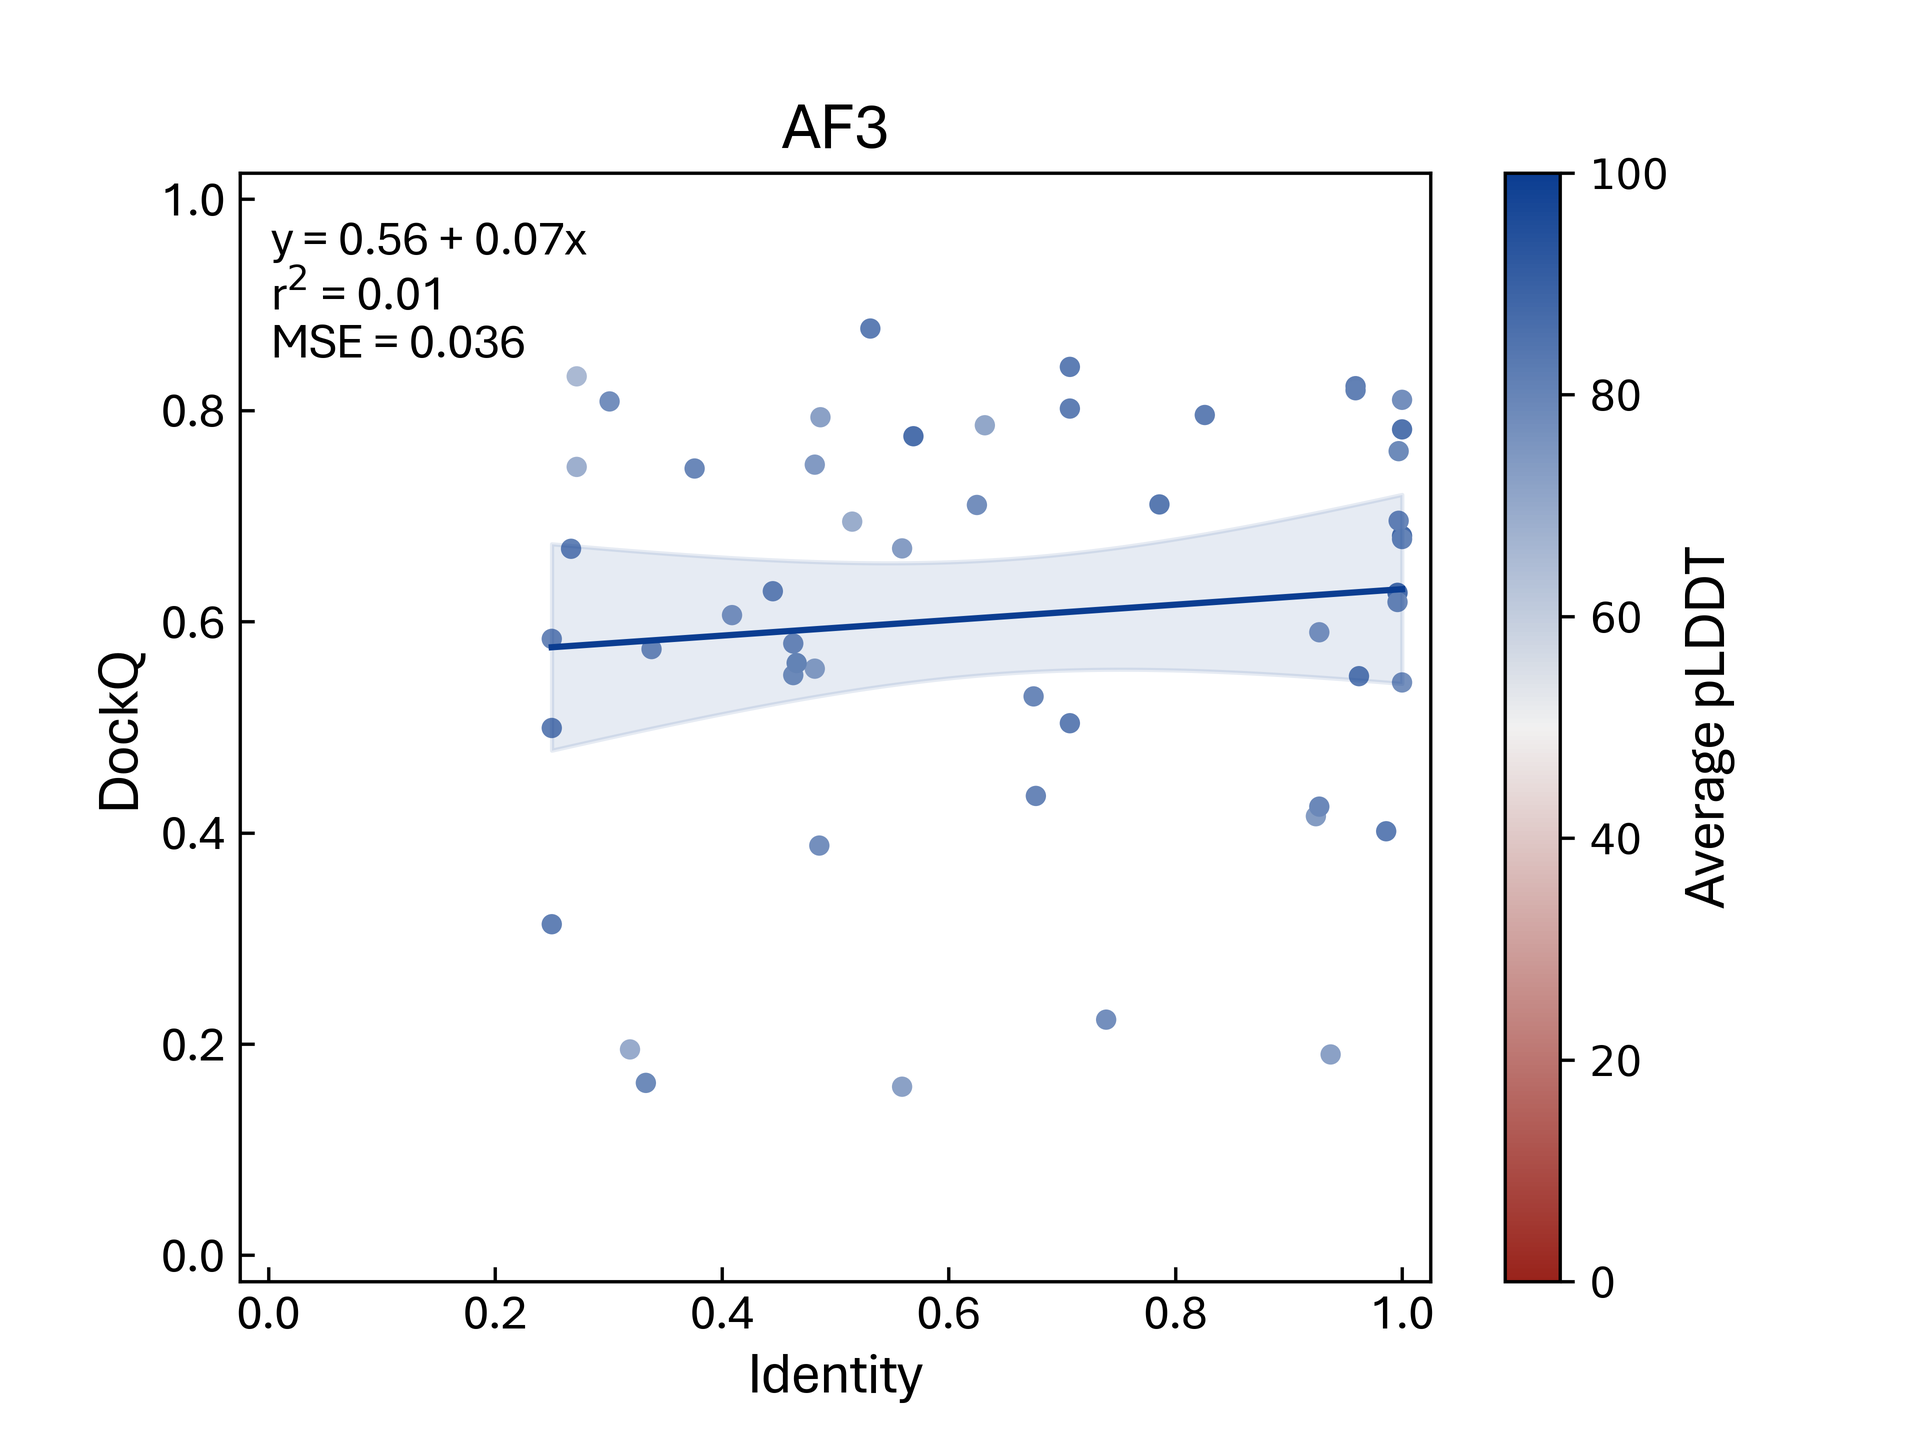
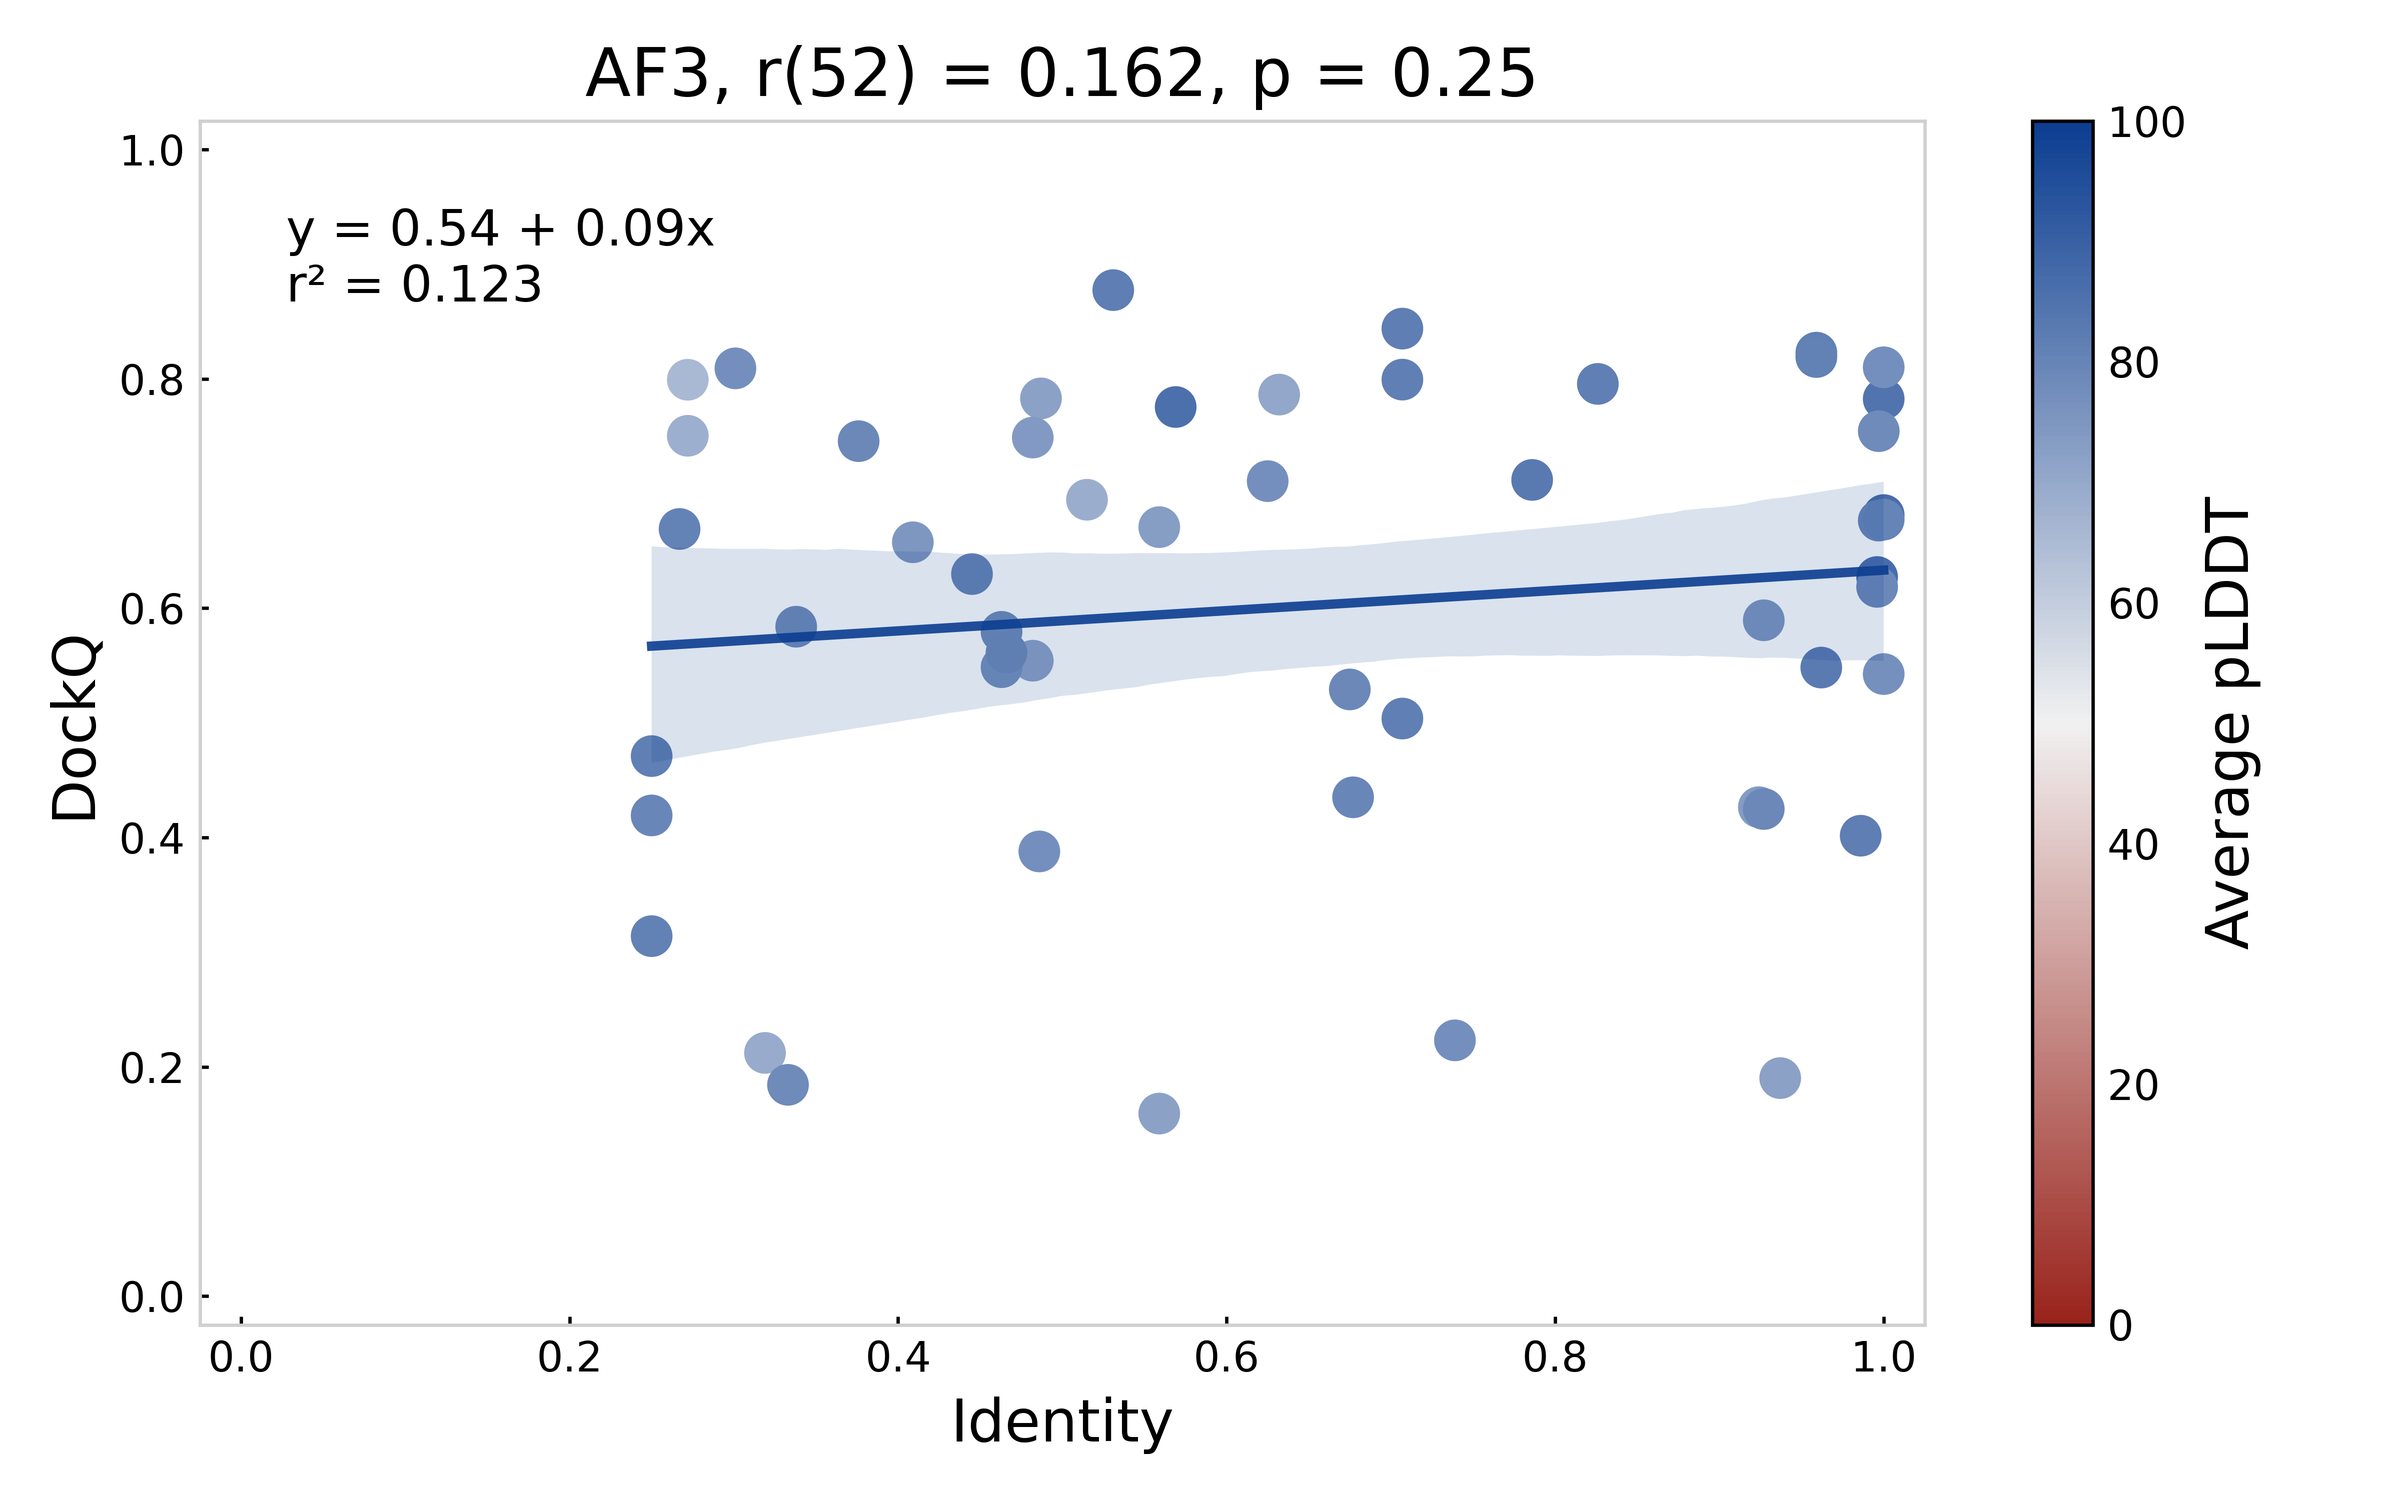
Correct evalue plots

diff --git a/structure_benchmark_data/get_mmseqs2_evalue.py b/structure_benchmark_data/get_mmseqs2_evalue.py
@@ -3,9 +3,6 @@ import sys
 import pandas as pd
 import matplotlib.pyplot as plt
 import seaborn as sns
-import matplotlib.font_manager as fm
-import matplotlib.colors as mcolors
-from matplotlib.colors import LinearSegmentedColormap
 from scipy import stats
 import numpy as np
 from sklearn.metrics import r2_score
@@ -14,6 +11,7 @@ from sklearn.metrics import r2_score
 top_level_dir = os.path.abspath(os.path.join(os.path.dirname(__file__), ".."))
 sys.path.append(top_level_dir)
 from colors import *
+
 
 def get_closest_training_structures(input_path):
     # List files in the input directory
@@ -87,14 +85,13 @@ def calculate_average_plddt(pdb_file_path):
         return None
 
 
-def identity_vs_dockq_plot(model, dockq_path, training_struct_df, plot_path=""):
+def identity_vs_dockq_plot(model, dockq_path, training_struct_df, plot_path="", x="Identity", y="DockQ"):
     data = pd.read_csv(dockq_path)
     data = data[data["model"] == model]
     data = data.merge(training_struct_df, left_on="pdb", right_on="pdb", how="left")
 
-    # Get the top-level directory
+    # Get the top-level directory and build the path to the plot directory
     repo_dir = os.path.abspath(os.path.join(os.path.dirname(__file__), ".."))
-
     if plot_path == "":
         plot_path = f"{repo_dir}/structure_benchmark_data/plots"
 
@@ -116,149 +113,84 @@ def identity_vs_dockq_plot(model, dockq_path, training_struct_df, plot_path=""):
             average_plddt = average_plddt * 100
         data.loc[data["pdb"] == pdb, "average_plddt"] = average_plddt
 
-    # Make a scatter plot of DockQ vs e-value
-    fig, ax = plt.subplots(figsize=(8, 5))
-    x = "Identity"
-    y = "DockQ"
+    # Use Spearman's rank correlation to calculate the correlation between the two variables
+    statistic, corr_p_val = stats.spearmanr(data[[x, y]], axis=0, nan_policy='propagate', alternative='two-sided')
+    statistic = np.round(statistic, 3)
+    corr_p_val = np.round(corr_p_val, 3)
+    n = len(data[x])
 
-    # Plot path
-    if not os.path.exists(plot_path):
-        os.makedirs(plot_path)
-    output_path = os.path.join(plot_path, f"{model}_{x}_vs_{y}.png")
+    # Calculate the regression statistics
+    slope, intercept, r_value, p_value, std_err = stats.linregress(data[x], data[y])
 
-    # Specify the path to the Aptos font file
-    font_path = f"{repo_dir}/Aptos.ttf"
-    font_prop = fm.FontProperties(fname=font_path)
+    # Make the plot using Seaborn
+    plt.figure(figsize=(8, 5))
 
-    # Calculate the linear regression line and 95% confidence interval
-    slope, intercept = np.polyfit(data[x], data[y], 1)
-    y_model = np.polyval([slope, intercept], data[x])
-    x_mean = np.mean(data[x])
-    y_mean = np.mean(data[y])
-    n = data[x].size
-    m = 2  # Two parameters: slope and intercept
-    dof = n - m
-    t = stats.t.ppf(0.975, dof)
-
-    numerator = np.sum((data[x] - x_mean) * (data[y] - y_mean))
-    denominator = (
-        np.sum((data[x] - x_mean) ** 2) * np.sum((data[y] - y_mean) ** 2)
-    ) ** 0.5
-    r2 = (numerator / denominator)**2
-    MSE = 1 / n * np.sum((data[y] - y_model) ** 2)
-    x_line = np.linspace(np.min(data[x]), np.max(data[x]), 100)
-    y_line = np.polyval([slope, intercept], x_line)
-    ci = (
-        t
-        * std_error
-        * (1 / n + (x_line - x_mean) ** 2 / np.sum((data[x] - x_mean) ** 2)) ** 0.5
+    # Create the scatterplot using plt.scatter with fixed colormap scale
+    points = plt.scatter(
+        data[x],
+        data[y],
+        c=data["average_plddt"],  # Set color based on average pLDDT
+        cmap=get_good_bad_cmap(),  # Use a consistent colormap
+        s=100,  # Set point size
+        linewidth=0,  # Set edge width
+        vmin=0,  # Fix the minimum value at 0
+        vmax=100  # Fix the maximum value at 100
     )
 
-    # Residuals and standard error
-    residual = data[y] - y_model
-    std_error = (np.sum(residual**2) / dof) ** 0.5  # Standard deviation of the error
+    # Add colorbar for the scatter plot
+    cbar = plt.colorbar(points)
+    cbar.set_label("Average pLDDT", fontsize=14)
 
-    # Mean of the x values
-    x_mean = np.mean(data[x])
-
-    # Standard error of the slope
-    SE_slope = std_error / np.sqrt(np.sum((data[x] - x_mean) ** 2))
-
-    # t-statistic for the slope
-    t_stat_slope = slope / SE_slope
-
-    # p-value (two-tailed)
-    p_value = 2 * (1 - stats.t.cdf(np.abs(t_stat_slope), dof))
-
-
-    print("Manual calculation: ")
-    print(f"Slope: {slope}")
-    print(f"Intercept: {intercept}")
-    print(f"t-statistic for slope: {t_stat_slope}")
-    print(f"p-value: {p_value}\n\n")
-
-    slope, intercept, r_value, p_value, std_err = stats.linregress(data[x], data[y])
-    print("Using function: ")
-    print(f"Slope: {slope}")
-    print(f"Intercept: {intercept}")
-    print(f"t-statistic for slope: {t_stat_slope}")
-    print(f"p-value: {p_value}")
-
-    # Create new figure
-    fig, ax = plt.subplots()
-
-    # Set the normalization range for the colormap from 0 to 100
-    norm = mcolors.Normalize(vmin=0, vmax=100)
-
-    # Make the scatterplot
-    sc = ax.scatter(
+    # Create the scatterplot with regression line and confidence intervals using sns.regplot()
+    scatter_plot = sns.regplot(
         x=data[x],
         y=data[y],
-        c=data["average_plddt"],
-        cmap=get_good_bad_cmap(),
-        norm=norm,
-        s=15,
-    )
-    ax.plot(x_line, y_line, color=COLOR["Receptor"])
-    ax.fill_between(
-        x_line,
-        y_line + ci,
-        y_line - ci,
-        color=COLOR["Receptor"],
-        label="95% confidence interval",
-        alpha=0.1,
-    )
-    ax.text(
-        0.0025,
-        0.85,
-        "y = "
-        + str(np.round(intercept, 2))
-        + " + "
-        + str(np.round(slope, 2))
-        + "x\n"
-        + "r$^2$ = "
-        + str(np.round(r2, 3))
-        + "\nMSE = "
-        + str(np.round(MSE, 3)),
-        font_properties=font_prop,
-        fontsize=12,
+        scatter_kws={"s": 0},
+        line_kws={"color": "#0b3d91", "alpha": 0.9},
+        ci=95
     )
 
-    # Add colorbar
-    cbar = plt.colorbar(sc, ax=ax, orientation="vertical")
-    cbar.set_label("Average pLDDT", fontproperties=font_prop, fontsize=14)
-
-    # Optionally, set custom ticks and labels for the colorbar
-    cbar.set_ticks([0, 20, 40, 60, 80, 100])  # Customize the ticks if needed
-    cbar.set_ticklabels([0, 20, 40, 60, 80, 100])  # Customize the tick labels if needed
-
-    # Update fonts and labels
-    plt.xlabel(x, fontproperties=font_prop, fontsize=14)
-    plt.ylabel(y, fontproperties=font_prop, fontsize=14)
-
-    # Update fonts and labels
-    plt.xlabel(x, fontproperties=font_prop, fontsize=14)
-    plt.ylabel(y, fontproperties=font_prop, fontsize=14)
-
-    # Modify the title
+    # Set axis labels and title
+    plt.xlabel(x, fontsize=14)
+    plt.ylabel(y, fontsize=14)
     model_title = model.split("_")[0]
     if "no_templates" in model:
         model_title += " (no templates)"
-    plt.title(f"{model_title}", fontproperties=font_prop, fontsize=16)
+    plt.title(f"{model_title}, r({n}) = {statistic}, p = {corr_p_val}", fontsize=16)
 
-    # Set the font properties for the ticks
-    for label in ax.get_xticklabels() + ax.get_yticklabels():
-        label.set_fontproperties(font_prop)
-        label.set_fontsize(12)
-
-    # Modift ticks and set axis limits
-    plt.tick_params(axis="y", direction="in")
-    plt.tick_params(axis="x", direction="in")
+    # Set axis limits
     plt.ylim(-0.025, 1.025)
     plt.xlim(-0.025, 1.025)
 
-    # Save the figure
+    # Annotate the plot with the regression statistics
+    plt.text(
+        0.05,
+        0.85,
+        f"y = {intercept:.2f} + {slope:.2f}x\nr² = {r_value:.3f}",
+        fontsize=12,
+        transform=scatter_plot.transAxes
+    )
+
+    # Hide grid and legend
+    plt.grid(False)
+
+    # Make frame around the plot grey
+    for spine in plt.gca().spines.values():
+        spine.set_edgecolor("#d0d0d0")
+
+    # Make tickmarks go inward
+    plt.tick_params(direction="in", length=2)
+
+    # Remove tickmarks from colorbar
+    cbar.ax.tick_params(direction="in", length=0)
+
+    # Save the plot
+    if not os.path.exists(plot_path):
+        os.makedirs(plot_path)
+    output_path = os.path.join(plot_path, f"{model}_{x}_vs_{y}.png")
+    plt.tight_layout()
     plt.savefig(output_path, dpi=600)
+    plt.close()
 
 
 if __name__ == "__main__":
@@ -272,11 +204,11 @@ if __name__ == "__main__":
     # Get the closest training structures
     af_training_struct = get_closest_training_structures(af_input_path)
     af_training_struct.to_csv(
-        f"{file_dir}/mmseq2_results/mmseq2_af_training_structures.csv", index=False
+        f"{file_dir}/mmseqs2_results/mmseq2_af_training_structures.csv", index=False
     )
     rfaa_training_struct = get_closest_training_structures(rfaa_input_path)
     rfaa_training_struct.to_csv(
-        f"{file_dir}/mmseq2_results/mmseq2_rfaa_training_structures.csv", index=False
+        f"{file_dir}/mmseqs2_results/mmseq2_rfaa_training_structures.csv", index=False
     )
 
     # Path to the DockQ results file
